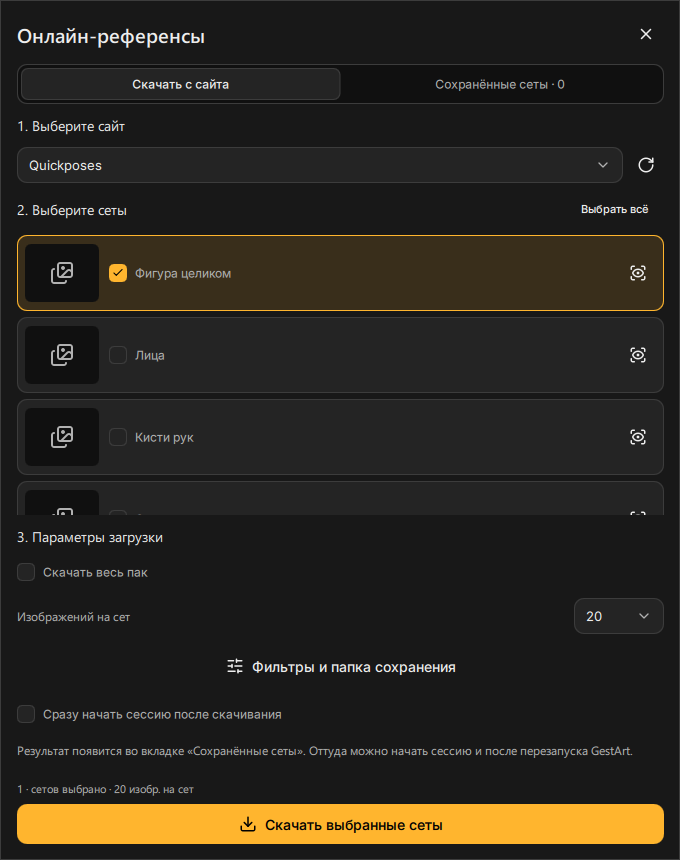
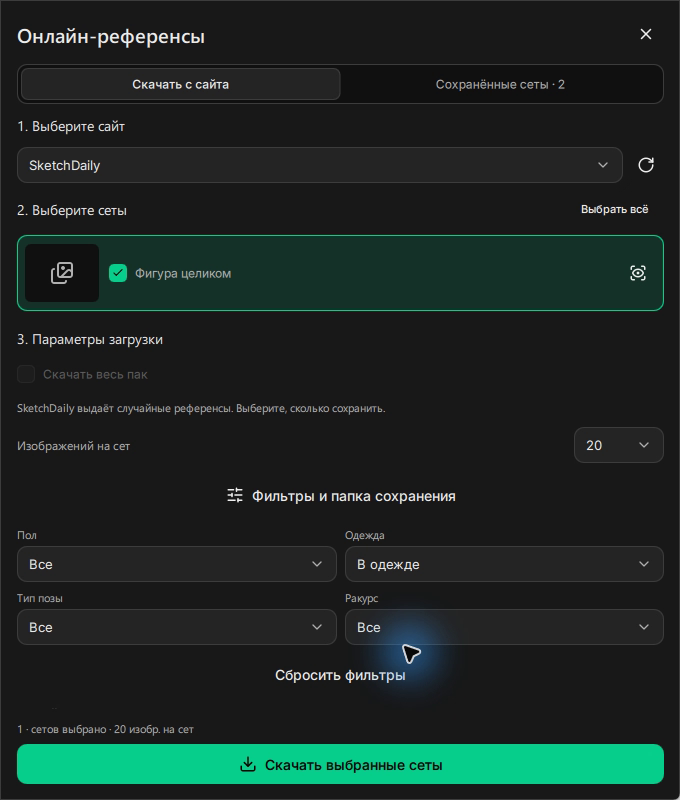
Show feature tour, screenshots, and supported languages in READMEs

diff --git a/README.ru.md b/README.ru.md
@@ -10,6 +10,59 @@ GestArt Ultimate — настольная программа для художн
 Ветка **ultimate** содержит версию на C++20 и Qt Quick.
 Прежняя версия проекта сохранена в [ветке old](https://github.com/LeonWGal/GestArt/tree/old).
 
+## Посмотрите короткий обзор
+
+[![Видеообзор GestArt Ultimate: коллекции, инструменты, сайты и офлайн-сеты](assets/screenshots/video-preview.jpg)](https://github.com/LeonWGal/GestArt/releases/download/ultimate-v1.8.0/GestArt-Ultimate-Highlights-RU-EN.mp4)
+
+[▶ Смотреть или скачать видео — 1:27, Full HD, MP4](https://github.com/LeonWGal/GestArt/releases/download/ultimate-v1.8.0/GestArt-Ultimate-Highlights-RU-EN.mp4).
+Надписи на английском и русском, без озвучки. В ролике используются референсы
+в одежде из Grafit Reference Sampler; также показаны практика на сайте и скачивание.
+Музыка: **Lofi Hip Hop Loop** от OMF-Games под CC0;
+см. [источник и лицензию музыки](assets/media/music-license.txt).
+
+## Возможности
+
+Выбирайте инструменты под свою практику рисунка:
+
+| Возможность | Что можно делать |
+| --- | --- |
+| Практика с таймером | Задавайте время на референс и число этюдов, занимайтесь без ограничений, ставьте паузу, пропускайте кадры и включайте перерывы со звуковым отсчётом. |
+| Инструменты изображения | Включайте чёрно-белый режим и настраиваемую сетку, отражайте и поворачивайте референс, приближайте детали, перемещайте и вписывайте изображение в окно. |
+| Коллекции | Добавляйте свои папки, смотрите превью, ищите изображения, переименовывайте коллекции и выбирайте состав сессии. |
+| Четыре онлайн-источника | Открывайте Quickposes, Proko, Pose Library и SketchDaily внутри программы с настройками и таймером самого сайта. |
+| Скачивание сетов | Смотрите превью сетов, применяйте доступные фильтры, выбирайте число изображений или весь пак и продолжайте прерванные загрузки. |
+| Офлайн-практика | Храните скачанные сеты на диске и запускайте только выбранный сет с таймером и инструментами GestArt. |
+| Фокус и управление окном | Скрывайте панели при уходе курсора, включайте полный экран или режим поверх окон, настраивайте видимость и положение таймера. |
+| Оформление | Выбирайте светлую или тёмную тему либо оформление системы, меняйте цветовые акценты, прозрачность и размытие панелей, уменьшайте анимацию. |
+| Учёт практики | Смотрите историю, завершённые этюды, время занятий, активные дни и календарь; задавайте цели по времени или числу этюдов. |
+| 22 языка интерфейса | Меняйте язык в **Настройки → Оформление**; для арабского доступен интерфейс справа налево. |
+| Portable-сборки Windows | Запускайте EXE или ZIP без установки, храните настройки, историю и загрузки в папке данных portable-версии. |
+
+<details>
+<summary>Все 22 языка интерфейса</summary>
+
+Английский, арабский, венгерский, вьетнамский, индонезийский, испанский,
+итальянский, китайский (упрощённый), китайский (традиционный), корейский,
+немецкий, нидерландский, польский, португальский (Бразилия), румынский,
+русский, тайский, турецкий, украинский, французский, чешский и японский.
+
+Часть переводов выполнена машинно. Для отсутствующих переводов используется английский.
+
+</details>
+
+## Скриншоты
+
+На скриншотах показаны русский интерфейс и референсы Grafit в одежде.
+Язык интерфейса можно изменить в программе.
+
+| Коллекции и превью | Инструменты в сессии |
+| --- | --- |
+| ![Библиотека коллекций с четырьмя превью референсов в одежде](assets/screenshots/collections.jpg) | ![Сессия с чёрно-белым референсом и сеткой](assets/screenshots/session-tools.jpg) |
+
+| Календарь практики и цели на день | Темы и настройки оформления |
+| --- | --- |
+| ![Время практики, прогресс дневной цели и календарь](assets/screenshots/practice.jpg) | ![Светлая и тёмная основа, цветовые акценты и превью темы](assets/screenshots/settings.jpg) |
+
 ## Что изменилось после GestArt 0.9.8
 
 Ultimate продолжает программу для практики рисунка. Таймер, перерывы, сетка,
@@ -76,7 +129,9 @@ ZIP хранит их в `data` внутри распакованной папк
 случайные референсы: для него выберите количество изображений. Загрузчик
 использует открытые сеты; для аккаунта и закрытых материалов откройте сайт.
 
-![Выбор сетов и объёма загрузки](assets/screenshots/downloads.png)
+| Фильтры загрузки | Сохранённые сеты |
+| --- | --- |
+| ![Настройки загрузки SketchDaily с выбранным фильтром одежды](assets/screenshots/downloads.png) | ![Сохранённые сеты с кнопками настройки сессии](assets/screenshots/saved-sets.png) |
 
 ## Откройте сайт внутри программы
 
@@ -87,6 +142,8 @@ ZIP хранит их в `data` внутри распакованной папк
 
 Для практики с таймером, сеткой, отражением и статистикой GestArt скачайте сет
 и запустите его через **Сохранённые сеты**.
+
+![Референс в одежде на SketchDaily во встроенном браузере](assets/screenshots/browser.jpg)
 
 ## Используйте инструменты сессии
 

diff --git a/README.md b/README.md
@@ -10,6 +10,59 @@ offline, without a GestArt account.
 The **ultimate** branch contains the C++20 and Qt Quick version.
 The previous version is preserved in the [old branch](https://github.com/LeonWGal/GestArt/tree/old).
 
+## Watch the feature tour
+
+[![Watch the GestArt Ultimate feature tour: collections, image tools, websites, and offline sets](assets/screenshots/video-preview.jpg)](https://github.com/LeonWGal/GestArt/releases/download/ultimate-v1.8.0/GestArt-Ultimate-Highlights-RU-EN.mp4)
+
+[▶ Watch or download the demo — 1:27, Full HD, MP4](https://github.com/LeonWGal/GestArt/releases/download/ultimate-v1.8.0/GestArt-Ultimate-Highlights-RU-EN.mp4).
+English and Russian captions, no narration. The demo uses clothed references
+from Grafit Reference Sampler and shows website practice and downloads.
+Music: **Lofi Hip Hop Loop** by OMF-Games, released under CC0;
+see the [music source and license](assets/media/music-license.txt).
+
+## Features
+
+Use the tools that fit your drawing practice:
+
+| Feature | What you can do |
+| --- | --- |
+| Timed practice | Set the time per reference and the number of studies, use unlimited sessions, pause, skip, and schedule breaks with countdown sounds. |
+| Image tools | Switch to black and white, add a configurable grid, mirror, rotate, zoom, pan, and fit the image to the window. |
+| Collections | Add your own folders, browse image previews, search, rename collections, and choose which images enter a session. |
+| Four online sources | Browse Quickposes, Proko, Pose Library, and SketchDaily inside the app with the website's own settings and timer. |
+| Set downloads | Preview sets, filter references where supported, choose an image count or a full pack, and resume interrupted downloads. |
+| Offline practice | Keep downloaded sets locally and start a session with only the selected set and GestArt's timer and tools. |
+| Focus and window controls | Hide panels when the pointer leaves, use full screen or always-on-top mode, and choose the timer's visibility and position. |
+| Appearance | Choose light or dark mode, follow the system theme, adjust color accents, and set panel transparency, blur, and reduced motion. |
+| Practice tracking | Review history, completed studies, practice time, active days, a calendar, and daily goals based on time or study count. |
+| 22 interface languages | Change the language in **Settings → Appearance**; Arabic also uses a right-to-left layout. |
+| Windows portable builds | Run the EXE or ZIP without installation and keep your settings, history, and downloads in the portable data folder. |
+
+<details>
+<summary>All 22 interface languages</summary>
+
+Arabic, Chinese (Simplified), Chinese (Traditional), Czech, Dutch, English,
+French, German, Hungarian, Indonesian, Italian, Japanese, Korean, Polish,
+Portuguese (Brazil), Romanian, Russian, Spanish, Thai, Turkish, Ukrainian,
+and Vietnamese.
+
+Some translations are machine-generated. Missing translations appear in English.
+
+</details>
+
+## Screenshots
+
+The screenshots show the Russian interface and clothed Grafit references.
+You can change the interface language in the app.
+
+| Collections and previews | Image tools during a session |
+| --- | --- |
+| ![Collection library with four clothed reference previews](assets/screenshots/collections.jpg) | ![Reference session with black-and-white mode and a grid](assets/screenshots/session-tools.jpg) |
+
+| Practice calendar and daily goals | Themes and appearance settings |
+| --- | --- |
+| ![Practice totals, daily goal progress, and calendar](assets/screenshots/practice.jpg) | ![Light and dark modes, color accents, and theme previews](assets/screenshots/settings.jpg) |
+
 ## Changes since GestArt 0.9.8
 
 Ultimate continues the drawing practice app. The timer, breaks, grid, image
@@ -77,7 +130,9 @@ provides random references: choose an image count for this source.
 The downloader uses public sets; open the website to access your account
 or restricted materials.
 
-![Set selection and download size in the Russian interface](assets/screenshots/downloads.png)
+| Download filters | Saved sets |
+| --- | --- |
+| ![SketchDaily download options with the clothed filter selected](assets/screenshots/downloads.png) | ![Saved reference sets with buttons to set up a session](assets/screenshots/saved-sets.png) |
 
 ## Open a website inside the app
 
@@ -88,6 +143,8 @@ restore the controls. **Download references** opens downloads for that website.
 
 To practice with GestArt's timer, grid, mirroring, and statistics, download a
 set and start it from **Saved sets**.
+
+![Clothed reference on SketchDaily inside the built-in browser](assets/screenshots/browser.jpg)
 
 ## Use session tools
 
